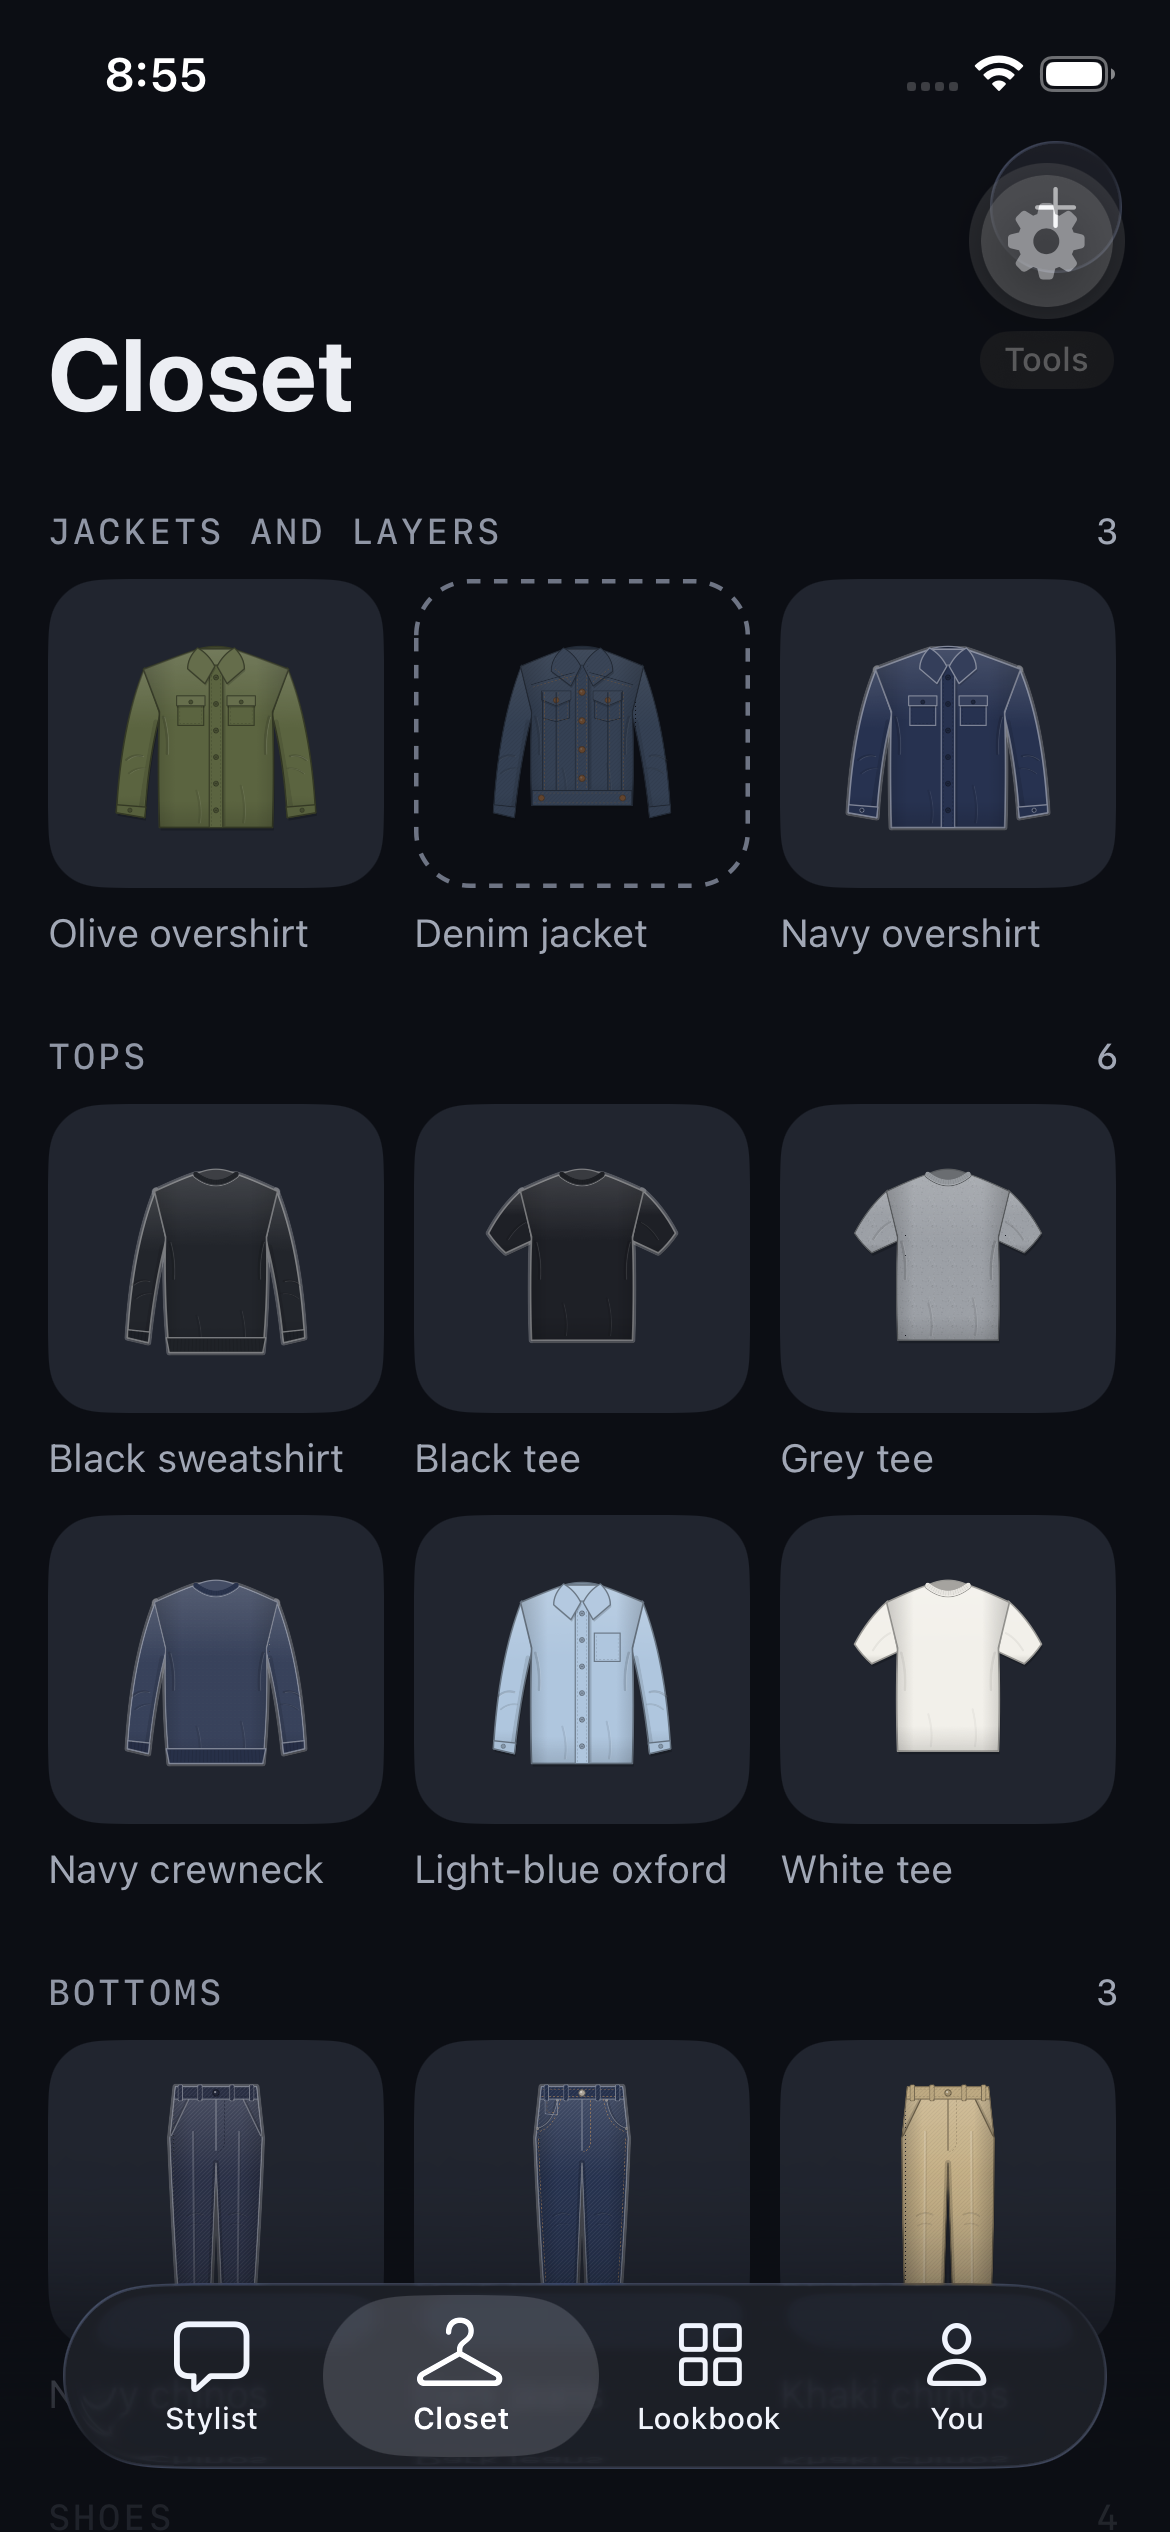
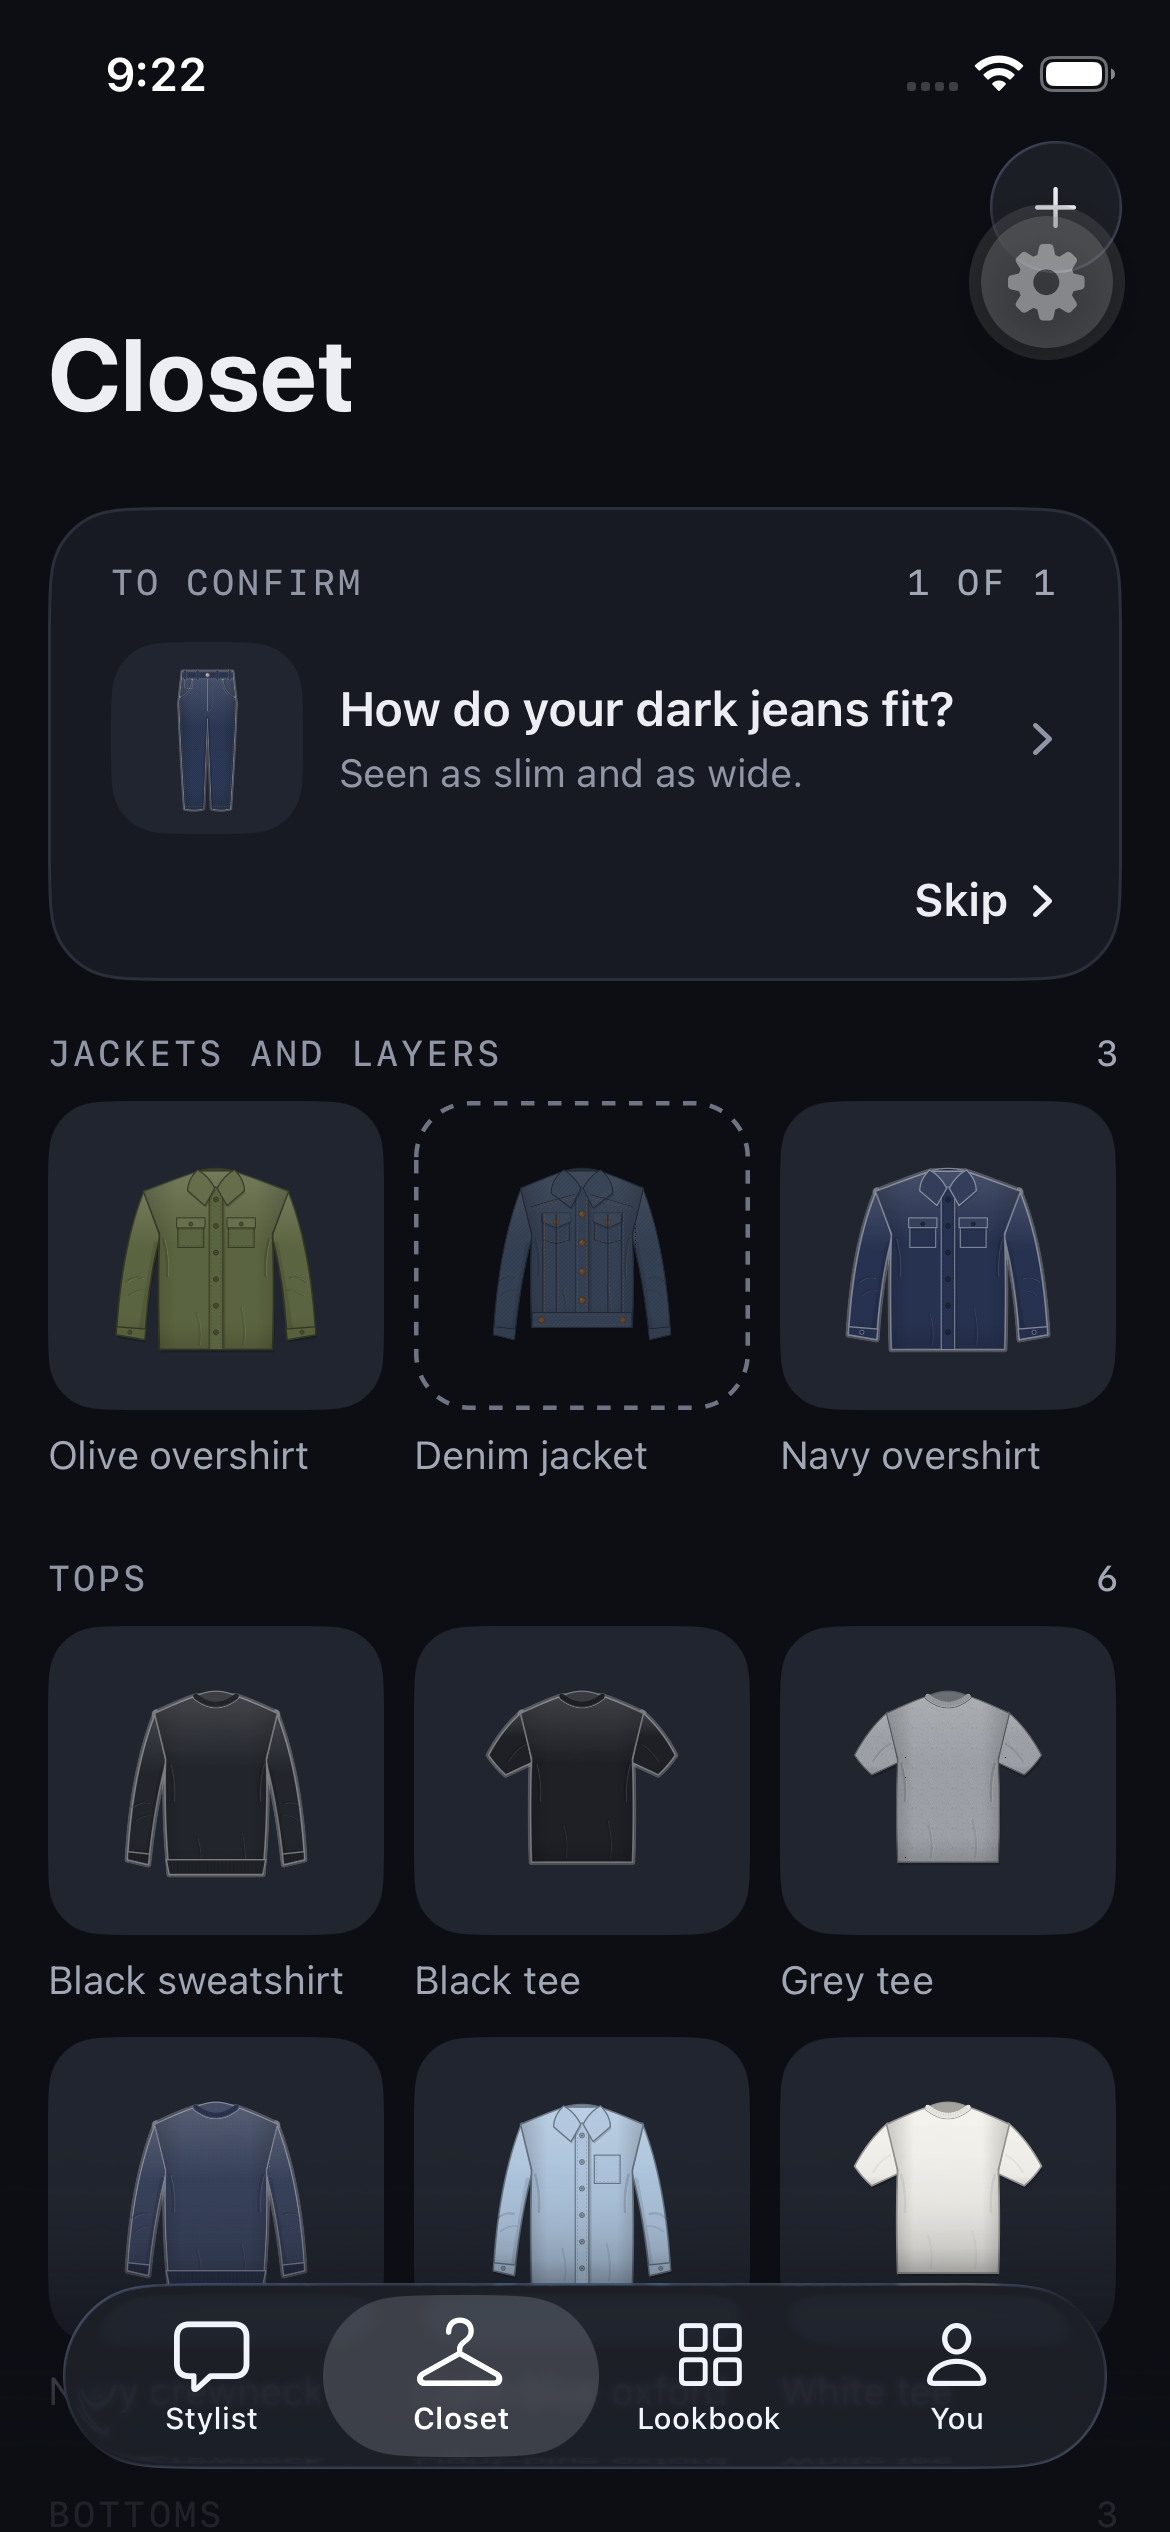
T74: fix round: the lone fit card's screenshots retaken (263), the last answer's screenshot added

diff --git a/tasks/T74/TASK.md b/tasks/T74/TASK.md
@@ -23,7 +23,7 @@ The full plan, the locked testing contract, the approved design and the build no
 ## Built
 - **Changed:** see `REPORT.md` → Built (the implementer's account).
 - **Tests added:** `app/src/__tests__/closetDeck.test.tsx` (47, locked), `closetBatch287.test.ts` C2 rewritten for CB2.1 · `npm run check` (Nov 10, after main merged in, `--no-watchman --maxWorkers=2`): tsc green; lint 0 errors, 6 warnings, all in test files that came from main (`cardThresholdCard.test.tsx` 5, `tryOn.test.ts` 1); core 853/853; app `Test Suites: 3 skipped, 129 passed · Tests: 4 skipped, 1799 passed, 1803 total`.
-- **Screenshots** (iPhone 17e, this branch's Metro on 8082; the 17 Pro was another session's): `tasks/T74/shots/01-one-question-light.png`, `01-one-question-dark.png` (264: 1 of 1, no Skip) · `02-fit-only-light.png`, `02-fit-only-dark.png` (263: the fit card alone, 1 of 1 with Skip) · `03-first-of-five-light.png`, `03-first-of-five-dark.png` (262: 1 of 5, Skip on the answers' row) · `04-third-of-five-light.png` (262 after two Skips: 3 of 5) · `05-third-answer-light.png` (262 card 4: "It's my khaki chinos", Skip on its own row) · `06-fit-card-last-light.png` (262: 5 of 5, the fit card) · `07-after-answer-light.png` (262 after "Yes, same one": 1 of 4 and "Saved as your khaki chinos." with Undo) · `08-largest-text-top-light.png`, `09-largest-text-answers-light.png` (262 at the largest text size).
+- **Screenshots** (iPhone 17e, this branch's Metro on 8082; the 17 Pro was another session's): `tasks/T74/shots/01-one-question-light.png`, `01-one-question-dark.png` (264: 1 of 1, no Skip) · `02-fit-only-light.png`, `02-fit-only-dark.png` (263: the fit card alone, 1 of 1 with Skip; retaken in the fix round, the first pair was shot before 263's story was fixed) · `03-first-of-five-light.png`, `03-first-of-five-dark.png` (262: 1 of 5, Skip on the answers' row) · `04-third-of-five-light.png` (262 after two Skips: 3 of 5) · `05-third-answer-light.png` (262 card 4: "It's my khaki chinos", Skip on its own row) · `06-fit-card-last-light.png` (262: 5 of 5, the fit card) · `07-after-answer-light.png` (262 after "Yes, same one": 1 of 4 and "Saved as your khaki chinos." with Undo) · `08-largest-text-top-light.png`, `09-largest-text-answers-light.png` (262 at the largest text size) · `10-after-last-answer-light.png` (264 after "No, a new one": the card gone, the pieces moved up, "Kept as a new piece." with Undo; added in the fix round).
 - **Fixed while taking screenshots (demo data only):** screens 262 and 263 showed no card on the Simulator: their stories' questions came from real checks whose matches depend on the photo's sampled colors, which differ on a device (the implementer's probe ran without sampling). 263 now uses screen 194's sightings (proven on the device); 262 uses screen 264's chinos check, three questions copied from it onto his other bottoms (a new demo-only step `askCopies`, as the locked C2 test builds its five; the last copy has a runner-up), then 194's sightings for the fit card. Only `app/src/demo/prepareDemoScreen.ts` changed; no app code. The copies reuse the chinos photo, so two cards ask about the navy chinos.
 - **The locked flow `T74-confirm-one-card.yaml`** (iPhone 17e, Metro 8082): red as written, at three steps whose tool can't do what the step needs; the app does each by hand. Run from scratch copies with only the failing block removed (not committed), every other step is green: CB2.1, CB2.2, CB2.4 (up to the wrap), CB2.5 (the fit card's Skip and its sheet), 263 and 264 (one question, no Skip, a swipe does nothing, the answer takes the card away), 64 steps in the last run.
   - CB2.3 `tapOn: "Undo"`: Maestro's instant tap closes the toast without firing Undo (CLAUDE.md: a toast's Undo needs `duration: 0.15`). By hand with a 0.15 s press: card 1's Undo and card 2's (after a Skip) each come back word for word (`2 of 5`, the navy chinos); the closet service's log shows the `unanswer`.
